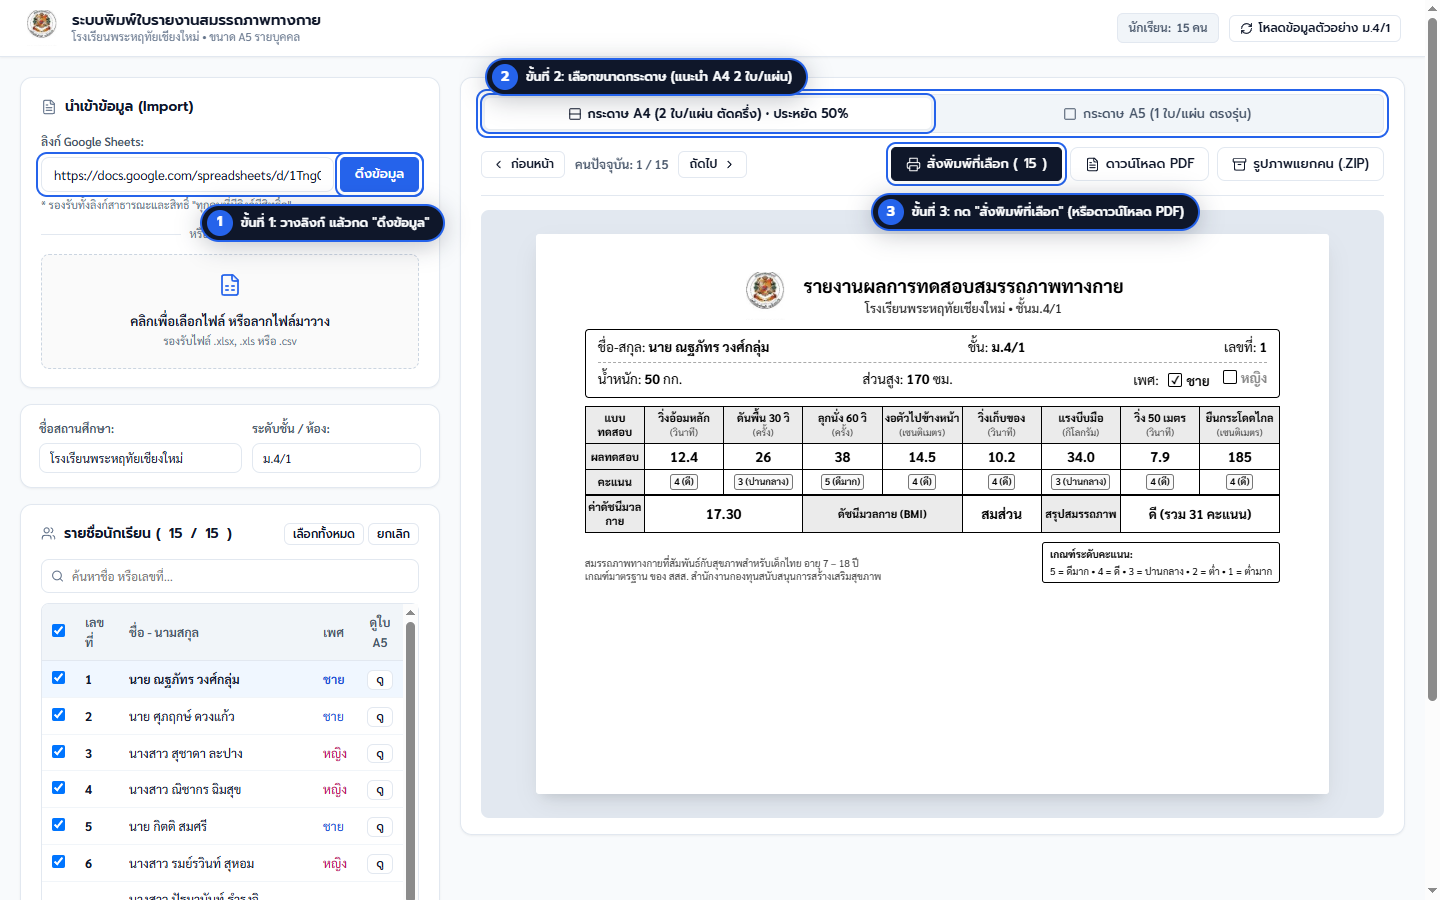
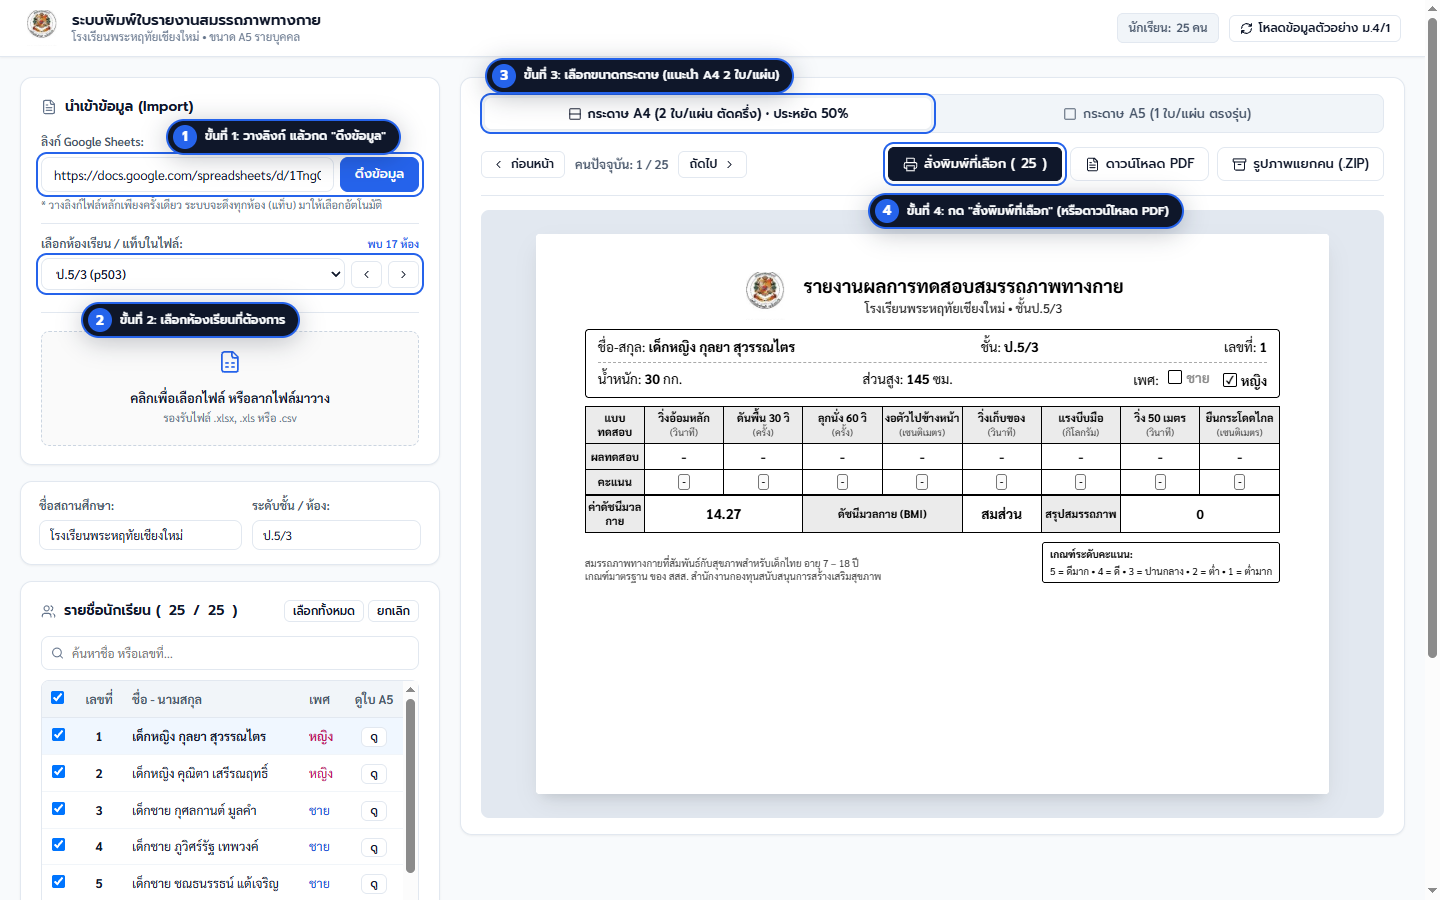
docs: update user guide screenshot and README with room dropdown step

diff --git a/README.md b/README.md
@@ -3,23 +3,25 @@
 
 เว็บแอปพลิเคชันสำหรับดึงข้อมูลผลการทดสอบสมรรถภาพทางกายและดัชนีมวลกาย (BMI) จาก Google Sheets หรือไฟล์ Excel/CSV เพื่อนำมาพิมพ์เป็นใบรายงานผลขนาด A5 รายบุคคล แจกให้นักเรียนได้อย่างสะดวกรวดเร็ว
 
-🌐 **เข้าใช้งานออนไลน์ได้ทันทีที่**: [https://bmiprint.vercel.app/](https://bmiprint.vercel.app/)  
+**เข้าใช้งานออนไลน์ได้ทันทีที่**: [https://bmiprint.vercel.app/](https://bmiprint.vercel.app/)  
 *(สำรองผ่าน GitHub Pages: [https://vector033.github.io/BMI_print/](https://vector033.github.io/BMI_print/))*
 
 ---
 
-## 3 ขั้นตอนการใช้งานง่ายๆ
+## 4 ขั้นตอนการใช้งานง่ายๆ
 
 ![คู่มือขั้นตอนการใช้งาน](user_guide_steps.png)
 
 1. **ขั้นที่ 1: วางลิงก์ แล้วกด "ดึงข้อมูล"**
-   * วางลิงก์ Google Sheets ในช่อง แล้วกดปุ่ม **"ดึงข้อมูล"**
-   * หรือหากมีไฟล์ Excel (.xlsx, .xls) หรือ CSV สามารถลากไฟล์มาวางในกล่องด้านล่างได้ทันที
-   * ระบบจะอ่านข้อมูล รายชื่อ ชั้น และคำนวณคะแนน/เกณฑ์ให้อัตโนมัติ พร้อมเลือกนักเรียนทุกคนให้อยู่แล้ว
-2. **ขั้นที่ 2: เลือกขนาดกระดาษที่ต้องการ**
+   * วางลิงก์ Google Sheets ไฟล์หลัก **เพียงครั้งเดียว** แล้วกดปุ่ม **"ดึงข้อมูล"**
+   * หรือหากมีไฟล์ Excel (`.xlsx`, `.xls`) หรือ `.csv` สามารถลากไฟล์มาวางในกล่องด้านล่างได้ทันที
+2. **ขั้นที่ 2: เลือกห้องเรียนที่ต้องการ**
+   * ระบบจะดึงรายชื่อทุกแท็บ/ห้องในไฟล์มาแสดงในช่อง **Dropdown เลือกห้องเรียน** อัตโนมัติ (รองรับทั้ง ป., ม., อ.)
+   * สามารถเลือกสลับห้องจาก Dropdown หรือกดปุ่ม `<` `>` เพื่อเปลี่ยนห้องได้ทันทีโดยไม่ต้องก๊อปลิงก์ใหม่
+3. **ขั้นที่ 3: เลือกขนาดกระดาษที่ต้องการ**
    * แนะนำเลือก **"กระดาษ A4 (2 ใบ/แผ่น ตัดครึ่ง) • ประหยัด 50%"** จะจัดพิมพ์ 2 คนต่อ 1 แผ่น A4 มีเส้นประแบ่งครึ่งสำหรับตัดแจก
    * หรือเลือก **"กระดาษ A5 (1 ใบ/แผ่น ตรงรุ่น)"** หากใช้กระดาษ A5 สำเร็จรูป
-3. **ขั้นที่ 3: กด "สั่งพิมพ์ที่เลือก"**
+4. **ขั้นที่ 4: กด "สั่งพิมพ์ที่เลือก"**
    * กดปุ่ม **"สั่งพิมพ์ที่เลือก"** เพื่อเปิดหน้าต่างพิมพ์ของเบราว์เซอร์แล้วสั่งพิมพ์ได้ทันที (ไม่มีหน้าว่างคั่น ไม่ตกขอบ)
    * หรือกดปุ่ม **"ดาวน์โหลด PDF"** เพื่อรวมเล่มเป็นไฟล์ PDF หรือ **"รูปภาพแยกคน (.ZIP)"** เพื่อส่งให้ผู้ปกครองหรือนักเรียนรายบุคคล
 
@@ -27,10 +29,10 @@
 
 ## ฟังก์ชันเด่นของระบบ
 
-* **ดึงข้อมูลจาก Google Sheets ได้โดยตรง (Client-Side JSONP)**: ใช้งานได้ทันทีบนเว็บ ไม่ต้องติดตั้งโปรแกรม ไม่ต้องผ่านเซิร์ฟเวอร์คนกลาง
-* **รองรับการใช้งานออฟไลน์ 100%**: สามารถดับเบิ้ลคลิกเปิดไฟล์ `index.html` ใช้งานได้ทันทีโดยไม่ต้องต่ออินเทอร์เน็ต (ลากไฟล์ Excel เข้ามาวาง)
+* **วางลิงก์ครั้งเดียวสลับได้ทุกห้อง**: ดึงรายชื่อแท็บทั้งหมดจาก Google Sheets และ Excel หลายชีตมาเป็น Dropdown ให้อัตโนมัติ
+* **รองรับทุกระดับชั้น**: ตรวจจับระดับชั้น ประถม (`ป.`), มัธยม (`ม.`), อนุบาล (`อ.`) และคำนำหน้าชื่ออัตโนมัติ รวมถึงซ่อน `-` กรณีนักเรียนไม่มีนามสกุล
 * **จัดพิมพ์ประหยัดกระดาษ**: พิมพ์ 2 ใบต่อ 1 แผ่น A4 พร้อมเส้นประตัดกึ่งกลางพอดี A5
-* **เกณฑ์มาตรฐาน สสส.**: คำนวณค่า BMI แปลผลสมรรถภาพ และระดับคะแนน 1-5 พร้อมตารางเกณฑ์ระบุชัดเจนทุกใบ
+* **เกณฑ์มาตรฐาน สสส.**: แสดงค่า BMI แปลผลสมรรถภาพ และระดับคะแนน 1-5 พร้อมตารางเกณฑ์ระบุชัดเจนทุกใบ
 * **ส่งออกได้หลากหลาย**: ทั้งพิมพ์ออกเครื่องพิมพ์โดยตรง, บันทึกเป็น PDF รวมเล่ม, และส่งออกไฟล์รูปภาพ PNG แยกคนแบบบีบอัด (.ZIP)
 
 ---
